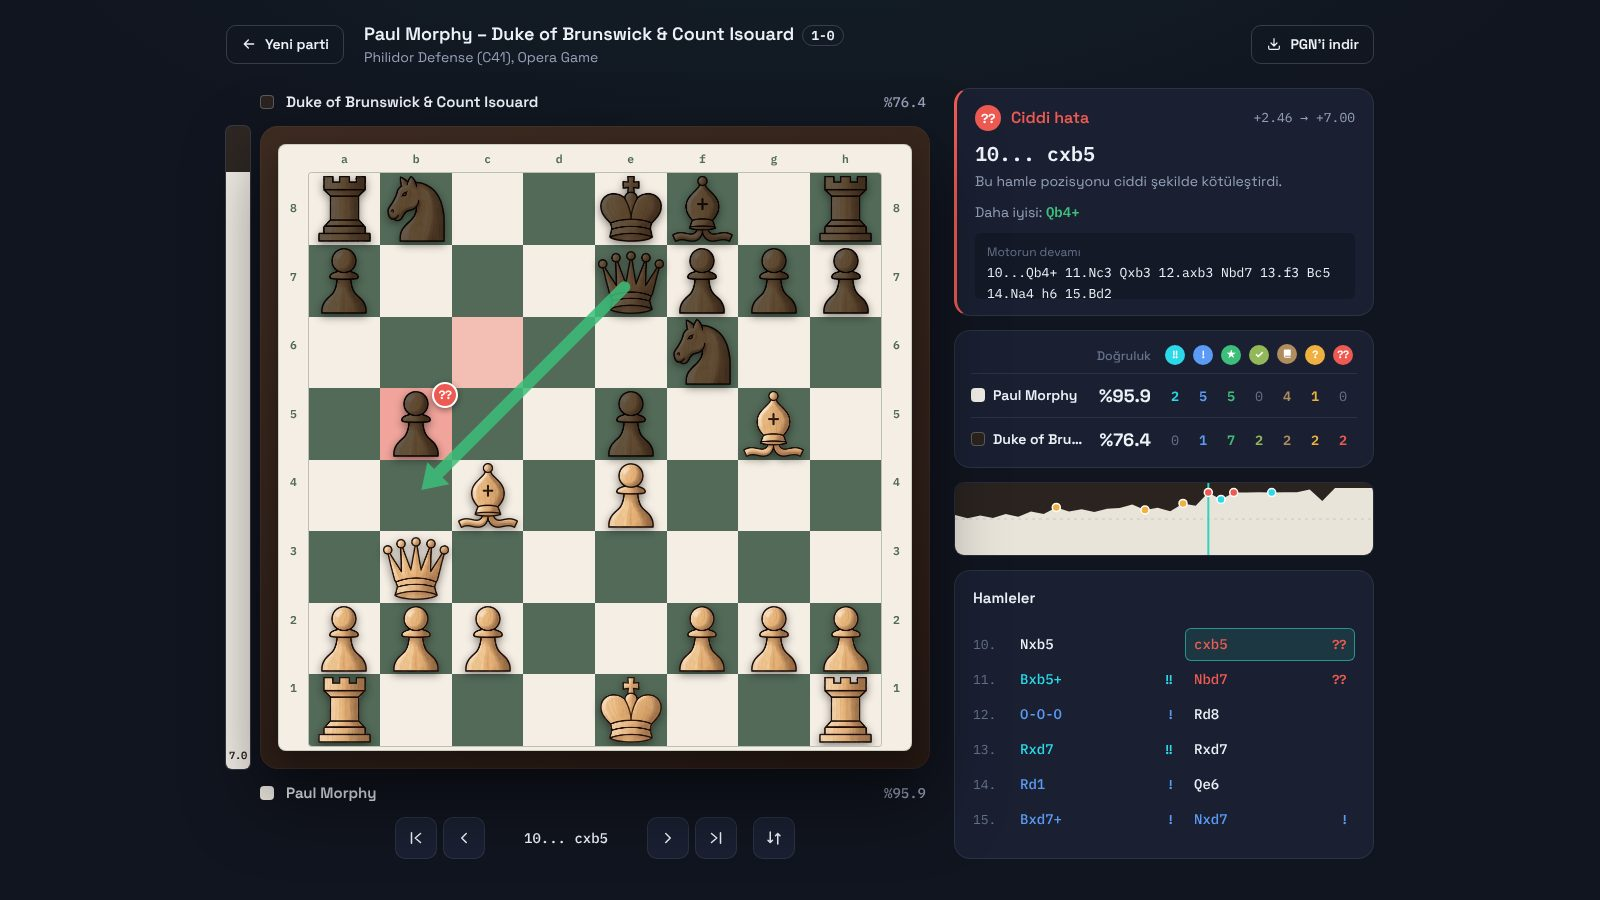
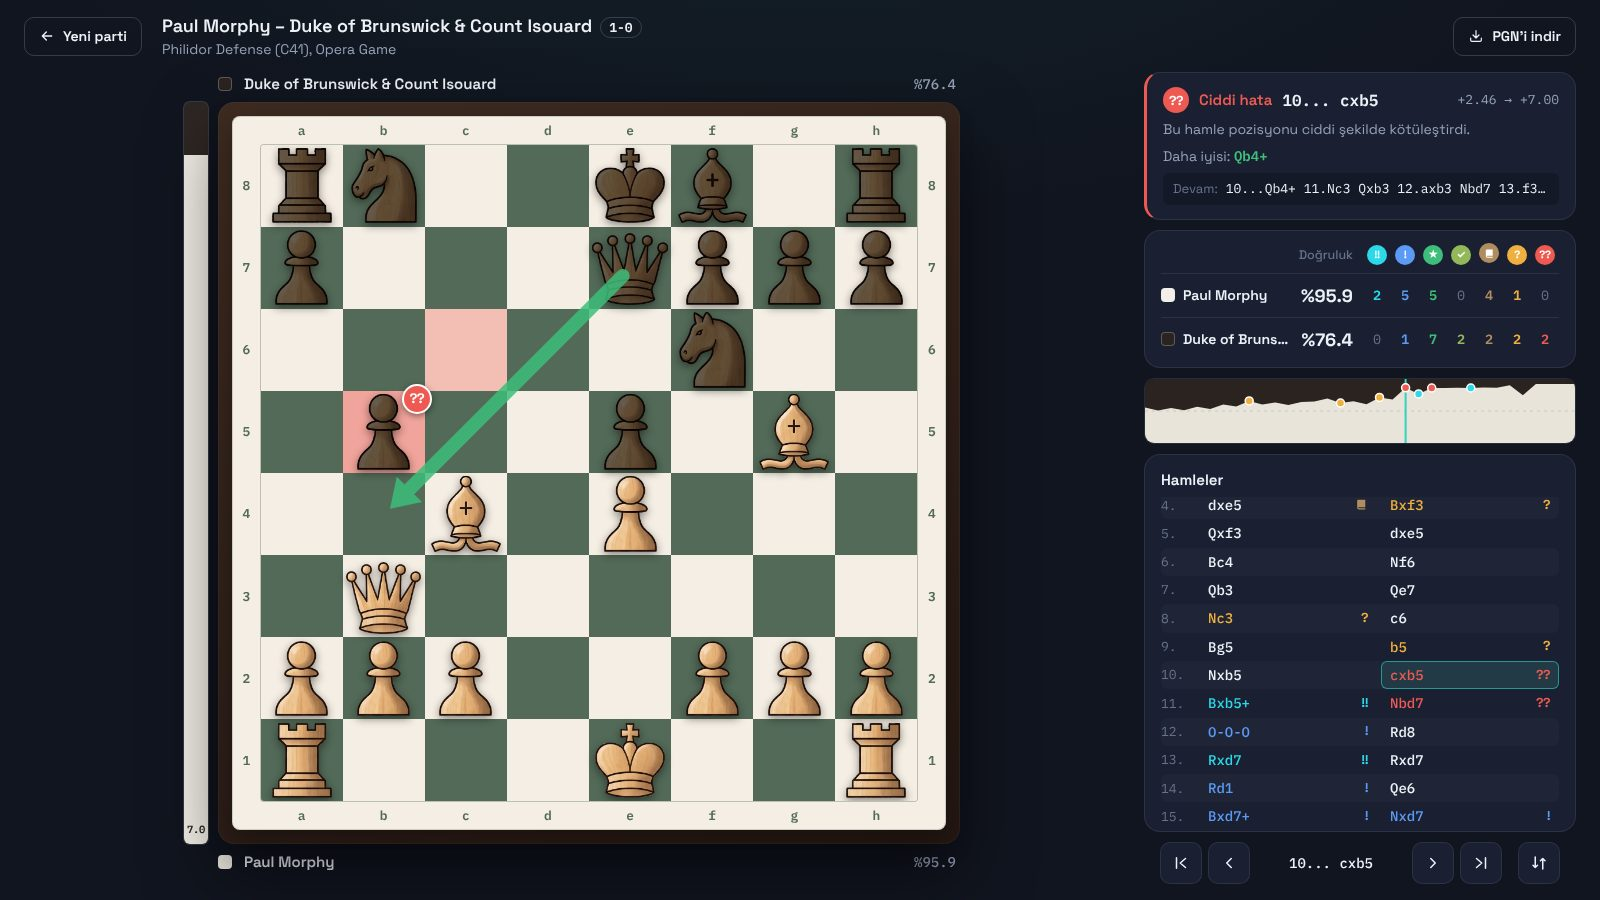
Büyük tahta: inceleme ekranı tam ekran, hamle listesi kaydırmasız (#7)
Claude-Session: https://claude.ai/code/session_01SyyqPUVt1V3ToXoQ2exT7o

diff --git a/Chess/style.css b/Chess/style.css
@@ -266,11 +266,19 @@ footer.note { margin-top: 40px; font-size: 13px; color: var(--text-muted); max-w
    ========================================================= */
 .review-layout { display: none; }
 /* İnceleme ekranı tahta + sağ panelden oluşan tek bir blok; üst bar bu bloğun genişliğini alır */
-.review-layout.active { display: block; width: fit-content; max-width: 100%; margin: 0 auto; padding: 20px 24px 32px; }
+/* Masaüstünde inceleme ekranı tam ekran bir uygulama gibi: sayfa kaymaz, tahta kalan
+   yüksekliğin tamamını, sağ panel ise kalan genişliği kullanır. */
+.review-layout.active {
+  --panel-w: clamp(380px, 27vw, 520px);
+  display: flex; flex-direction: column;
+  height: 100vh; height: 100dvh;
+  padding: 12px 24px 16px;
+}
 
 .review-bar {
   display: flex; align-items: center; gap: 20px;
-  margin-bottom: 20px;
+  flex: none;
+  margin-bottom: 12px;
 }
 .game-info { min-width: 0; }
 .game-title { font-size: 18px; font-weight: 600; white-space: nowrap; overflow: hidden; text-overflow: ellipsis; }
@@ -278,26 +286,27 @@ footer.note { margin-top: 40px; font-size: 13px; color: var(--text-muted); max-w
 .result-chip { font-family: var(--font-mono); font-size: 13px; padding: 1px 8px; margin-left: 8px; border-radius: 99px; border: 1px solid var(--line-strong); color: var(--text-primary); }
 
 .review-grid {
+  flex: 1; min-height: 0;
   display: grid;
-  grid-template-columns: auto 420px;
-  justify-content: center;
+  grid-template-columns: minmax(0, 1fr) var(--panel-w);
   gap: 24px;
-  align-items: start;
 }
 
 /* ---------- Tahta sütunu ---------- */
-/* Tahta, oyuncu şeritleri ve gezinme düğmeleri tek ekrana sığsın (yüksekliğe ve genişliğe göre) */
+/* Tahta mümkün olan en büyük boyutta: hem kalan yüksekliğe hem kalan genişliğe sığar.
+   (100vh − üst bar − oyuncu şeritleri − boşluklar) ile (100vw − sağ panel − boşluklar)'ın küçüğü. */
 .board-col {
-  display: flex; flex-direction: column; gap: 10px;
-  width: min(calc(100vh - 196px), calc(100vw - 420px - 24px - 48px), 880px);
-  min-width: 400px;
+  display: flex; flex-direction: column; gap: 6px;
+  width: min(calc(100vh - 124px), calc(100vw - var(--panel-w) - 72px));
+  min-width: 360px;
+  justify-self: center;
 }
 
 .player-bar {
   display: flex; align-items: center; gap: 10px;
   padding: 0 4px 0 34px; /* değerlendirme çubuğu genişliği kadar içeriden başla */
   font-size: 15px; font-weight: 600;
-  min-height: 28px;
+  min-height: 24px;
 }
 .player-bar .swatch { margin-right: 2px; }
 .player-bar .player-name { white-space: nowrap; overflow: hidden; text-overflow: ellipsis; }
@@ -339,14 +348,15 @@ footer.note { margin-top: 40px; font-size: 13px; color: var(--text-muted); max-w
   position: relative; flex: 1; min-width: 0;
   container-type: inline-size;
   background: linear-gradient(160deg, var(--board-frame-wood-1) 0%, var(--board-frame-wood-2) 100%);
-  border-radius: 18px;
-  padding: clamp(10px, 2.6%, 24px);
+  border-radius: 16px;
+  padding: clamp(8px, 1.8%, 18px);
   box-shadow: 0 30px 70px rgba(0,0,0,0.5), inset 0 0 0 1px rgba(255,255,255,0.04);
 }
 .board-mat {
   display: grid;
-  grid-template-columns: 4.8% 1fr 4.8%;
-  grid-template-rows: 4.8% 1fr 4.8%;
+  grid-template-columns: 4% 1fr 4%;
+  grid-template-rows: 4% 1fr 4%;
+  aspect-ratio: 1 / 1; /* satır yüzdeleri genişliğe göre çözülsün; alt koordinat satırı kesilmesin */
   background: var(--board-frame-mat);
   border-radius: 8px;
   box-shadow: inset 0 0 0 1px rgba(83,106,88,0.25), 0 10px 26px rgba(0,0,0,0.35);
@@ -404,8 +414,8 @@ footer.note { margin-top: 40px; font-size: 13px; color: var(--text-muted); max-w
 /* ---------- Gezinme ---------- */
 .board-controls {
   display: flex; align-items: center; justify-content: center; gap: 6px;
-  padding-left: 34px;
 }
+.controls-card { flex: none; }
 .nav-btn {
   display: inline-flex; align-items: center; justify-content: center;
   width: 42px; height: 42px;
@@ -430,7 +440,7 @@ footer.note { margin-top: 40px; font-size: 13px; color: var(--text-muted); max-w
   border-radius: var(--radius-md);
   overflow: hidden;
 }
-#evalGraph { display: block; width: 100%; height: 72px; cursor: pointer; }
+#evalGraph { display: block; width: 100%; height: 64px; cursor: pointer; }
 #evalGraph .g-black { fill: #2A2320; }
 #evalGraph .g-white { fill: #E9E4DA; }
 #evalGraph .g-mid { stroke: rgba(148,163,184,.45); stroke-width: 1; stroke-dasharray: 3 4; }
@@ -438,29 +448,34 @@ footer.note { margin-top: 40px; font-size: 13px; color: var(--text-muted); max-w
 #evalGraph .g-dot { stroke: #fff; stroke-width: 1.5; }
 
 /* ---------- Sağ sütun ---------- */
-.side-col { display: flex; flex-direction: column; gap: 14px; min-width: 0; }
+.side-col { display: flex; flex-direction: column; gap: 10px; min-width: 0; min-height: 0; }
 .info-card {
   background: var(--panel-bg);
   border: 1px solid var(--line);
   border-radius: var(--radius-lg);
-  padding: 16px 18px;
+  padding: 14px 16px;
 }
-.info-card-title { font-size: 15px; font-weight: 600; margin: 0 0 10px; }
+.comment-card { flex: none; }
+.info-card-title { font-size: 15px; font-weight: 600; margin: 0 0 6px; }
 
-/* Yorum kartı */
+/* Yorum kartı: sınıf, hamle ve değerlendirme tek satırda; öneri ve motor devamı birer satır */
 .comment-card { border-left: 3px solid var(--cls, var(--line-strong)); }
-.comment-head { display: flex; align-items: center; gap: 10px; }
-.comment-label { font-weight: 600; font-size: 16px; color: var(--cls, var(--text-primary)); }
-.comment-eval { margin-left: auto; font-family: var(--font-mono); font-size: 13px; color: var(--text-secondary); white-space: nowrap; }
-.comment-move { font-family: var(--font-mono); font-size: 20px; font-weight: 600; margin: 8px 0 2px; }
+.comment-head { display: flex; align-items: center; gap: 10px; min-width: 0; }
+.comment-label { font-weight: 600; font-size: 15px; color: var(--cls, var(--text-primary)); white-space: nowrap; }
+.comment-move { font-family: var(--font-mono); font-size: 16px; font-weight: 600; white-space: nowrap; }
 .comment-move:empty { display: none; }
-.comment-text { margin: 0; font-size: 14px; color: var(--text-secondary); }
-.comment-best { margin-top: 10px; font-size: 14px; color: var(--text-secondary); }
+.comment-eval { margin-left: auto; font-family: var(--font-mono); font-size: 13px; color: var(--text-secondary); white-space: nowrap; }
+.comment-text { margin: 6px 0 0; font-size: 14px; color: var(--text-secondary); }
+.comment-best { margin-top: 6px; font-size: 14px; color: var(--text-secondary); }
 .comment-best:empty { display: none; }
 .comment-best b { font-family: var(--font-mono); color: var(--optimum); font-weight: 600; }
-.comment-pv { margin-top: 10px; max-height: 66px; overflow: auto; padding: 10px 12px; background: var(--panel-bg-2); border-radius: var(--radius-sm); }
-.comment-pv-label { display: block; font-size: 12px; color: var(--text-muted); margin-bottom: 2px; }
-.comment-pv p { margin: 0; font-family: var(--font-mono); font-size: 13px; color: var(--text-primary); line-height: 1.6; }
+.comment-pv {
+  margin-top: 6px; padding: 6px 10px;
+  background: var(--panel-bg-2); border-radius: var(--radius-sm);
+  font-family: var(--font-mono); font-size: 13px; color: var(--text-primary);
+  white-space: nowrap; overflow: hidden; text-overflow: ellipsis;
+}
+.comment-pv-label { font-family: var(--font-ui); color: var(--text-muted); }
 .comment-card .cls-badge:empty { display: none; }
 
 /* Özet: doğruluk + sınıf sayıları (iki satırlık kompakt tablo) */
@@ -481,14 +496,16 @@ footer.note { margin-top: 40px; font-size: 13px; color: var(--text-muted); max-w
 .sum-count.has { color: var(--cls); font-weight: 600; }
 
 /* Hamle listesi */
-.movelist-card { display: flex; flex-direction: column; min-height: 260px; flex: 1; }
-.move-list { flex: 1; min-height: 0; overflow-y: auto; overscroll-behavior: contain; display: flex; flex-direction: column; gap: 2px; margin: 0 -6px; padding: 0 6px; }
+.movelist-card { display: flex; flex-direction: column; min-height: 140px; flex: 1; padding-bottom: 8px; }
+.move-list { flex: 1; min-height: 0; overflow-y: auto; overscroll-behavior: contain; display: flex; flex-direction: column; gap: 0; margin: 0 -6px; padding: 0 6px; }
 .move-row { display: grid; grid-template-columns: 34px 1fr 1fr; gap: 4px; align-items: center; }
+.move-row:nth-child(even) { background: rgba(255,255,255,0.025); border-radius: var(--radius-sm); }
 .move-num { font-family: var(--font-mono); font-size: 13px; color: var(--text-muted); }
 .move-chip {
   display: flex; align-items: center; justify-content: space-between; gap: 6px;
   font-family: var(--font-mono); font-size: 14px; font-weight: 500;
-  padding: 5px 8px;
+  padding: 3px 8px;
+  line-height: 1.45;
   border-radius: var(--radius-sm);
   background: transparent; color: var(--text-primary);
   border: 1px solid transparent;
@@ -504,11 +521,16 @@ footer.note { margin-top: 40px; font-size: 13px; color: var(--text-muted); max-w
 
 /* ---------- Duyarlı yerleşim ---------- */
 @media (max-width: 1080px) {
-  .review-layout.active { width: auto; max-width: 720px; }
-  .review-grid { grid-template-columns: minmax(0, 1fr); }
-  .board-col { width: 100%; min-width: 0; }
-  .side-col.analysis-col { height: auto !important; }
-  .movelist-card { flex: none; }
+  /* Dar ekranda alt alta: tahta, gezinme, yorum, özet, grafik, hamleler */
+  .review-layout.active { height: auto; max-width: 720px; margin: 0 auto; padding: 16px 16px 32px; }
+  .review-grid { grid-template-columns: minmax(0, 1fr); gap: 12px; }
+  .board-col { width: 100%; min-width: 0; order: 1; }
+  .side-col.analysis-col { display: contents; }
+  .controls-card { order: 2; }
+  .comment-card { order: 3; }
+  .summary-card { order: 4; }
+  .graph-card { order: 5; }
+  .movelist-card { order: 6; flex: none; }
   .move-list { max-height: 360px; }
 }
 @media (max-width: 560px) {
@@ -520,7 +542,7 @@ footer.note { margin-top: 40px; font-size: 13px; color: var(--text-muted); max-w
   .board-row { gap: 6px; }
   .eval-bar { width: 16px; }
   .eval-label { display: none; }
-  .player-bar, .board-controls { padding-left: 22px; }
+  .player-bar { padding-left: 22px; }
   .board-frame { border-radius: 12px; }
   .nav-btn { width: 38px; height: 38px; }
   .nav-flip { margin-left: 4px; }
@@ -529,6 +551,17 @@ footer.note { margin-top: 40px; font-size: 13px; color: var(--text-muted); max-w
   .sum-acc-h { width: 62px; }
   .sum-cls-h { width: 24px; }
   .sum-acc { font-size: 16px; }
+}
+/* Kısa ekranlar (ör. 1366×768): sağ panel sıkışır, hamle listesine yer kalsın */
+@media (min-width: 1081px) and (max-height: 860px) {
+  .comment-text { display: none; }
+  .summary-table th, .summary-table td { padding: 4px 0; }
+  .summary-table thead th { padding-bottom: 4px; }
+  .summary-card { padding: 8px 14px 4px; }
+  .sum-acc { font-size: 16px; }
+  #evalGraph { height: 48px; }
+  .info-card { padding: 10px 14px; }
+  .nav-btn { width: 38px; height: 38px; }
 }
 @media (prefers-reduced-motion: reduce) {
   *, *::before, *::after { transition: none !important; animation: none !important; }

diff --git a/Chess/index.html b/Chess/index.html
@@ -8,7 +8,7 @@
   <link rel="preconnect" href="https://fonts.googleapis.com">
   <link rel="preconnect" href="https://fonts.gstatic.com" crossorigin>
   <link href="https://fonts.googleapis.com/css2?family=Space+Grotesk:wght@400;500;600;700&family=IBM+Plex+Mono:wght@400;500;600&display=swap" rel="stylesheet">
-  <link rel="stylesheet" href="style.css?v=7">
+  <link rel="stylesheet" href="style.css?v=8">
 </head>
 <body>
 
@@ -158,14 +158,6 @@
 
       <div class="player-bar" id="playerBottom"></div>
 
-      <div class="board-controls">
-        <button class="nav-btn" id="firstBtn" aria-label="Başa dön" title="Başa dön (Home)"><svg aria-hidden="true"><use href="#i-first"/></svg></button>
-        <button class="nav-btn" id="prevBtn" aria-label="Önceki hamle" title="Önceki hamle (←)"><svg aria-hidden="true"><use href="#i-prev"/></svg></button>
-        <span id="plyLabel">Başlangıç konumu</span>
-        <button class="nav-btn" id="nextBtn" aria-label="Sonraki hamle" title="Sonraki hamle (→)"><svg aria-hidden="true"><use href="#i-next"/></svg></button>
-        <button class="nav-btn" id="lastBtn" aria-label="Sona git" title="Sona git (End)"><svg aria-hidden="true"><use href="#i-last"/></svg></button>
-        <button class="nav-btn nav-flip" id="flipBtn" aria-label="Tahtayı çevir" title="Tahtayı çevir (F)"><svg aria-hidden="true"><use href="#i-flip"/></svg></button>
-      </div>
     </section>
 
     <aside class="side-col analysis-col" aria-label="Analiz">
@@ -173,15 +165,12 @@
         <div class="comment-head">
           <span class="cls-badge" id="commBadge"></span>
           <span class="comment-label" id="commLabel"></span>
+          <span class="comment-move" id="commTitle"></span>
           <span class="comment-eval" id="commEval"></span>
         </div>
-        <div class="comment-move" id="commTitle"></div>
         <p class="comment-text" id="commText"></p>
         <div class="comment-best" id="commBest"></div>
-        <div class="comment-pv hidden" id="commPvContainer">
-          <span class="comment-pv-label">Motorun devamı</span>
-          <p id="commPvText"></p>
-        </div>
+        <div class="comment-pv hidden" id="commPvContainer"><span class="comment-pv-label">Devam:</span> <span id="commPvText"></span></div>
       </div>
 
       <div class="info-card summary-card" id="accuracyCard">
@@ -202,10 +191,18 @@
         <h2 class="info-card-title">Hamleler</h2>
         <div class="move-list" id="moveList"></div>
       </div>
+      <div class="board-controls controls-card">
+        <button class="nav-btn" id="firstBtn" aria-label="Başa dön" title="Başa dön (Home)"><svg aria-hidden="true"><use href="#i-first"/></svg></button>
+        <button class="nav-btn" id="prevBtn" aria-label="Önceki hamle" title="Önceki hamle (←)"><svg aria-hidden="true"><use href="#i-prev"/></svg></button>
+        <span id="plyLabel">Başlangıç konumu</span>
+        <button class="nav-btn" id="nextBtn" aria-label="Sonraki hamle" title="Sonraki hamle (→)"><svg aria-hidden="true"><use href="#i-next"/></svg></button>
+        <button class="nav-btn" id="lastBtn" aria-label="Sona git" title="Sona git (End)"><svg aria-hidden="true"><use href="#i-last"/></svg></button>
+        <button class="nav-btn nav-flip" id="flipBtn" aria-label="Tahtayı çevir" title="Tahtayı çevir (F)"><svg aria-hidden="true"><use href="#i-flip"/></svg></button>
+      </div>
     </aside>
   </div>
 </div>
 
-<script type="module" src="script.js?v=7"></script>
+<script type="module" src="script.js?v=8"></script>
 </body>
 </html>

diff --git a/Chess/script.js b/Chess/script.js
@@ -1288,16 +1288,11 @@ function showReview() {
   window.scrollTo(0, 0);
 }
 
-// Masaüstünde sağ sütun tahta sütunuyla aynı yükseklikte olsun (hamle listesi kalan yeri doldurur)
+// Sağ panelin yüksekliğini artık CSS yönetiyor (ekran yüksekliğini doldurur); eski satır içi
+// yükseklik kalmışsa temizle.
 function syncAnalysisHeight() {
-  const boardColEl = document.querySelector('.board-col');
   const sideColEl = document.querySelector('.side-col.analysis-col');
-  if (!boardColEl || !sideColEl) return;
-  if (window.matchMedia('(max-width: 1080px)').matches) {
-    sideColEl.style.height = '';
-    return;
-  }
-  sideColEl.style.height = boardColEl.offsetHeight + 'px';
+  if (sideColEl) sideColEl.style.height = '';
 }
 window.addEventListener('resize', () => { syncAnalysisHeight(); if (state) renderEvalGraph(); });
 if (window.ResizeObserver) {
@@ -1416,7 +1411,7 @@ function renderEvalBar(cp) {
 function renderEvalGraph() {
   if (!state || !evalGraphEl) return;
   const W = Math.max(200, Math.round(evalGraphEl.clientWidth || 600));
-  const H = 72, pad = 5;
+  const H = Math.max(40, Math.round(evalGraphEl.clientHeight || 64)), pad = 5;
   const n = state.fens.length;
   const x = i => (n > 1 ? (i / (n - 1)) * W : 0);
   const y = i => pad + (1 - whiteWinPercent(evalAtPly(i)) / 100) * (H - 2 * pad);
@@ -1480,6 +1475,7 @@ function updateCommentary(move, ply) {
     const pv = formatPv(prevFen, move.pv);
     if (pv) {
       commPvText.textContent = pv;
+      commPvContainer.title = pv; // tek satıra sığmazsa tamamı fareyle üzerine gelince görünür
       commPvContainer.classList.remove('hidden');
     }
   }
